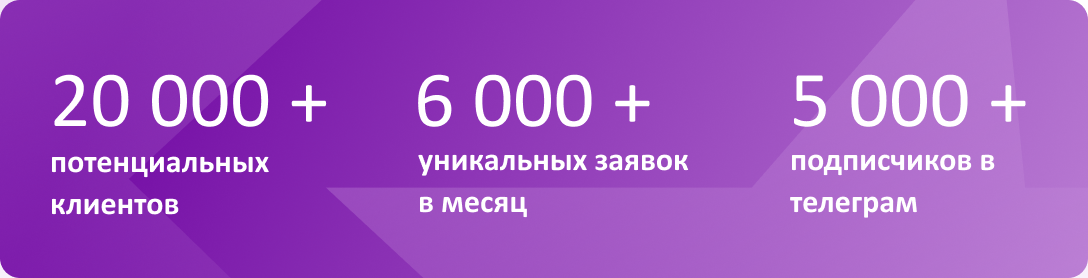
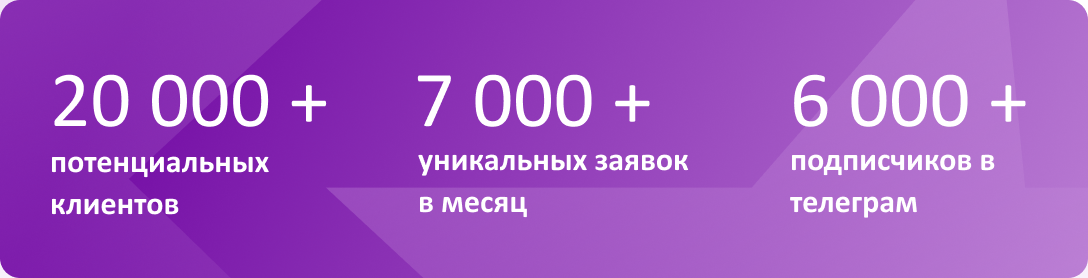
правки

Changed region(s): [[0.375, 0.259, 0.4375, 0.4604], [0.7188, 0.259, 0.7812, 0.4604]]

diff --git a/projects/rent6/mail6_v1.html b/projects/rent6/mail6_v1.html
@@ -2,7 +2,7 @@
 <html xmlns="http://www.w3.org/1999/xhtml">
 <head>
 	<meta http-equiv="Content-Type" content="text/html; charset=UTF-8" />
-	<title>Зарабатывайте на аренде больше с Rentag!</title>
+	<title>Получайте по 200 заявок ежедневно!</title>
 	<meta name="viewport" content="width=device-width, initial-scale=1.0"/>
 </head>
 	<body style="margin: 0; padding: 0;">
@@ -24,13 +24,13 @@
 										<td style="width: 28px;"></td>
 										<td>
 											<a href="https://rentag.ru/?utm_source=email&utm_medium=sales&utm_campaign=arendodatel" target="_blank">
-												<img src="logo-new.png" width="180" height="56" alt="Rentag">
+												<img src="https://craftmail.ru/projects/rent6/logo-new.png" width="180" height="56" alt="Rentag">
 											</a>
 										</td>
 										<td style="width: 185px;"></td>
 										<td>
 											<a href="https://rentag.ru/?utm_source=email&utm_medium=sales&utm_campaign=arendodatel" target="_blank">
-												<img src="btn-web.png" width="179" height="48" alt="Перейти на сайт">
+												<img src="https://craftmail.ru/projects/rent6/btn-web.png" width="179" height="48" alt="Перейти на сайт">
 											</a>
 										</td>
 										<td style="width: 28px;"></td>
@@ -91,7 +91,7 @@
 																						<td>
 																							<span style="font-family: Calibri, Helvetica, Arial, sans-serif; font-weight: 400; font-size: 20px; line-height: 28px; color: #131729;">
 																								Размещайте объявление на&nbsp;сервисе <a href="https://rentag.ru/arenda-spectehniki?utm_source=email&utm_medium=sales&utm_campaign=spetstekhnika" target="_blank" style="color: #720AA4; text-decoration: underline; font-family: Calibri, Helvetica, Arial, sans-serif; font-weight: 700; font-size: 20px; line-height: 28px;">Rentag</a> бесплатно и&nbsp;<b>получайте заявки</b> от&nbsp;тех, кто ищет ваш тип техники, <b>в&nbsp;личный кабинет</b>.<br>С&nbsp;помощью гибких фильтров выбирайте наиболее подходящие заявки и&nbsp;<b>связывайтесь с&nbsp;арендатором напрямую!</b><br><br>
-																								Ежемесячно <a href="https://rentag.ru/spec-transport/applications?utm_source=email&utm_medium=sales&utm_campaign=spetstekhnika" target="_blank" style="color: #720AA4; text-decoration: underline; font-family: Calibri, Helvetica, Arial, sans-serif; font-weight: 700; font-size: 20px; line-height: 28px;">в&nbsp;бирже</a> на&nbsp;сервисе <b>более 6000&nbsp;заявок</b>, вы&nbsp;точно <b>найдете своего клиента!</b>
+																								Ежемесячно <a href="https://rentag.ru/spec-transport/applications?utm_source=email&utm_medium=sales&utm_campaign=spetstekhnika" target="_blank" style="color: #720AA4; text-decoration: underline; font-family: Calibri, Helvetica, Arial, sans-serif; font-weight: 700; font-size: 20px; line-height: 28px;">в&nbsp;бирже</a> на&nbsp;сервисе <b>более 7000&nbsp;заявок</b>, вы&nbsp;точно <b>найдете своего клиента!</b>
 																							</span>
 																						</td>
 																					</tr>
@@ -118,7 +118,7 @@
 									<tr>
 										<td align="center">
 											<a href="https://rentag.ru/?utm_source=email&utm_medium=sales&utm_campaign=arendodatel" target="_blank">
-												<img src="banner-digits.png" alt="" style="display: block;" width="544" height="139">
+												<img src="https://craftmail.ru/projects/rent6/banner-digits.png" alt="" style="display: block;" width="544" height="139">
 											</a>
 										</td>
 									</tr>
@@ -148,7 +148,7 @@
 																		<tr>
 																			<td>
 																				<span style="font-family: Calibri, Helvetica, Arial, sans-serif; font-weight: 400; font-size: 20px; line-height: 26px; color: #131729;">
-																					Используйте дополнительный источник заявок – <a href="https://t.me/rentaggregatorzayavki" target="_blank" style="color: #720AA4; text-decoration: underline; font-family: Calibri, Helvetica, Arial, sans-serif; font-weight: 700; font-size: 20px; line-height: 28px;">Telegram-канал</a>, где более <b>5000 подписчиков!</b>
+																					Используйте дополнительный источник заявок – <a href="https://t.me/rentaggregatorzayavki" target="_blank" style="color: #720AA4; text-decoration: underline; font-family: Calibri, Helvetica, Arial, sans-serif; font-weight: 700; font-size: 20px; line-height: 28px;">Telegram-канал</a>, где более <b>6000 подписчиков!</b>
 																				</span>
 																			</td>
 																		</tr>
@@ -156,7 +156,7 @@
 																</td>
 																<td style="width: 18px;"></td>
 																<td>
-																	<img src="telegram3d.png" width="59" height="63" alt="" style="display: block;">
+																	<img src="https://craftmail.ru/projects/rent6/telegram3d.png" width="59" height="63" alt="" style="display: block;">
 																</td>
 																<td style="width: 21px;"></td>
 															</tr>
@@ -284,7 +284,7 @@
 												<tr>
 													<td style="padding: 0 30px 0 0;">
 														<a href="https://rentag.ru/?utm_source=email&utm_medium=sales&utm_campaign=arendodatel" target="_blank">
-															   <img src="logo-new.png" width="180" height="56" alt="Rentag" style="display: block;">
+															   <img src="https://craftmail.ru/projects/rent6/logo-new.png" width="180" height="56" alt="Rentag" style="display: block;">
 														   </a>
 													</td>
 												</tr>
@@ -320,7 +320,7 @@
 												<td style="width: 8px;"></td>
 												<td>
 													<a href="https://dzen.ru/rentag" target="_blank">
-														<img src="dzen.png" alt="Вконтакте" width="40" height="40" style="display: block;">
+														<img src="https://craftmail.ru/projects/rent6/dzen.png" alt="Вконтакте" width="40" height="40" style="display: block;">
 													</a>
 												</td>
 												<td style="width: 8px;"></td>
@@ -332,13 +332,13 @@
 												<td style="width: 8px;"></td>
 												<td>
 													<a href="https://vc.ru/u/3421797-rentag" target="_blank">
-														<img src="vc.png" alt="Вконтакте" width="41" height="40" style="display: block;">
+														<img src="https://craftmail.ru/projects/rent6/vc.png" alt="Вконтакте" width="41" height="40" style="display: block;">
 													</a>
 												</td>
 												<td style="width: 8px;"></td>
 												<td>
 													<a href="https://rutube.ru/channel/42077930/" target="_blank">
-														<img src="rutube.png" alt="Вконтакте" width="40" height="40" style="display: block;">
+														<img src="https://craftmail.ru/projects/rent6/rutube.png" alt="Вконтакте" width="40" height="40" style="display: block;">
 													</a>
 												</td>
 											</tr>
